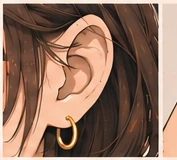
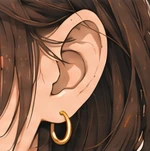
content(persona): 修正细节裁切并调整日常速写排版

diff --git a/assets/css/persona.css b/assets/css/persona.css
@@ -178,6 +178,10 @@
   gap: 0.55rem;
 }
 
+.pz-row--2 {
+  grid-template-columns: repeat(2, 1fr);
+}
+
 .pz-row--3 {
   grid-template-columns: repeat(3, 1fr);
 }
@@ -223,6 +227,10 @@
 
 .pz-slot--32 {
   aspect-ratio: 3 / 2;
+}
+
+.pz-slot--43 {
+  aspect-ratio: 4 / 3;
 }
 
 .pz-slot--169 {
